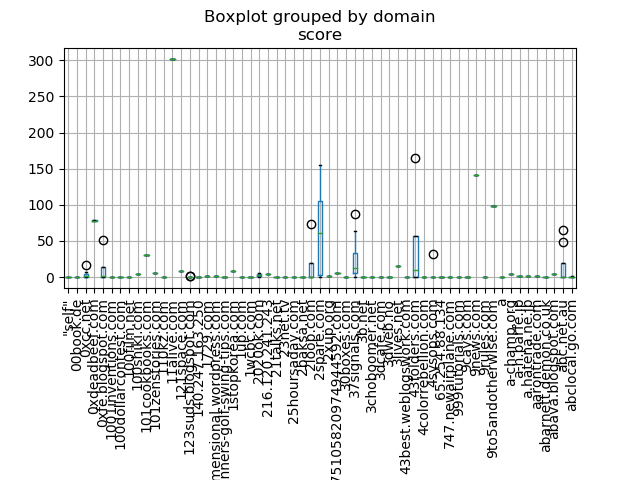
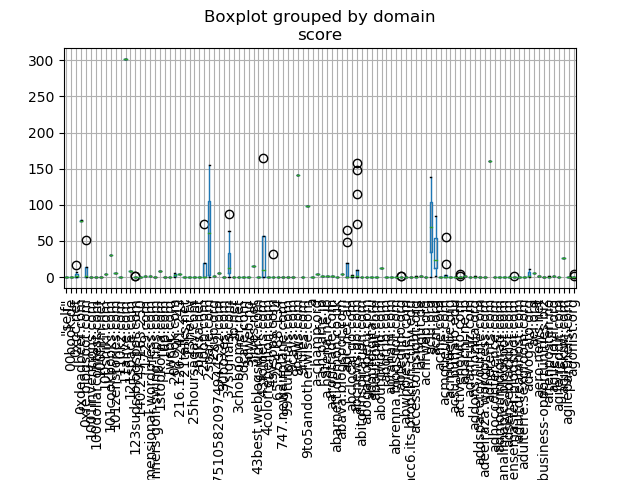
new figures

Changed region(s): [[0.0938, 0.0938, 0.9062, 1.0]]

diff --git a/data_exploration.py b/data_exploration.py
@@ -38,26 +38,26 @@ train_set_pd.corr()
 
 """ Scores grouped by author/ domain"""
 import matplotlib.pyplot as plt
-plt.figure(figsize=[30,20])
-train_set_pd[['author', 'score']].sort_values(by='author')[0:150].boxplot(by='author') 
+plt.figure(figsize=[30,40])
+train_set_pd[['author', 'score']].sort_values(by='author')[0:300].boxplot(by='author') 
 plt.xticks(rotation=90) 
 plt.gcf().subplots_adjust(bottom=0.3)
 plt.savefig('./figures/boxplot_score_groupedby_author')
 
-plt.figure(figsize=[40, 40]) 
-train_set_pd[['domain', 'score']].sort_values(by='domain')[0:150].boxplot(by='domain') 
+plt.figure(figsize=[40, 80]) 
+train_set_pd[['domain', 'score']].sort_values(by='domain')[0:300].boxplot(by='domain') 
 plt.gcf().subplots_adjust(bottom=0.4) 
 plt.xticks(rotation=90) 
 plt.savefig('./figures/boxplot_score_groupedby_domain') 
 
 plt.figure(figsize=[40, 40]) 
-train_set_pd[['subreddit', 'score']].sort_values(by='subreddit')[0:2000].boxplot(by='subreddit') 
+train_set_pd[['subreddit', 'score']].sort_values(by='subreddit')[0:4000].boxplot(by='subreddit') 
 plt.gcf().subplots_adjust(bottom=0.4) 
 plt.xticks(rotation=90) 
 plt.savefig('./figures/boxplot_score_groupedby_subreddit') 
 
 plt.figure(figsize=[40, 40]) 
-train_set_pd[['subreddit_type', 'score']].sort_values(by='subreddit_type')[0:2000].boxplot(by='subreddit_type') 
+train_set_pd[['subreddit_type', 'score']].sort_values(by='subreddit_type')[0:4000].boxplot(by='subreddit_type') 
 plt.gcf().subplots_adjust(bottom=0.4) 
 plt.xticks(rotation=90) 
 plt.savefig('./figures/boxplot_score_groupedby_subreddit_type') 
